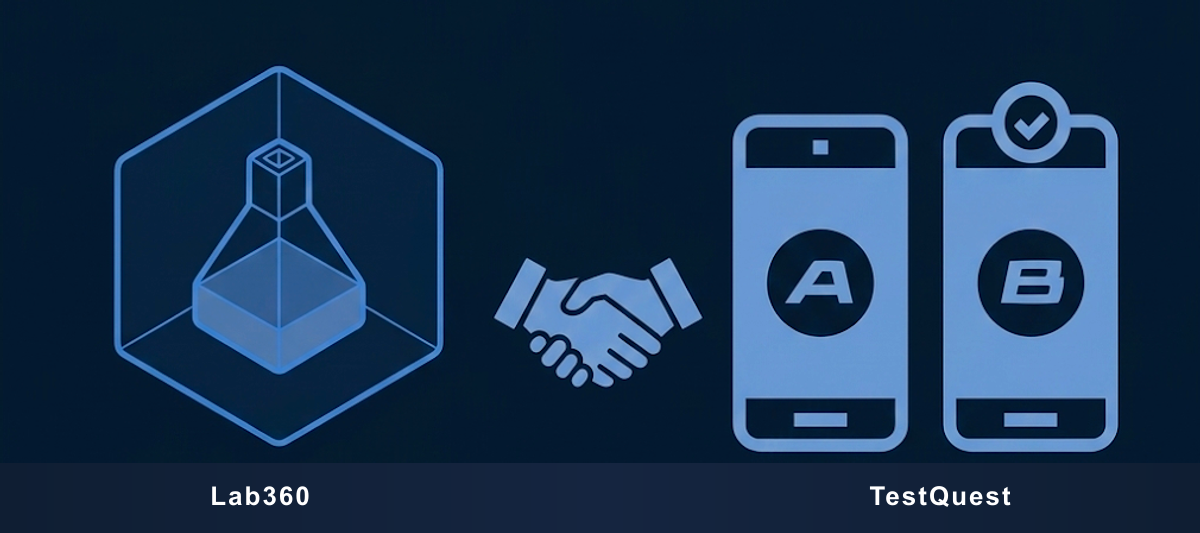
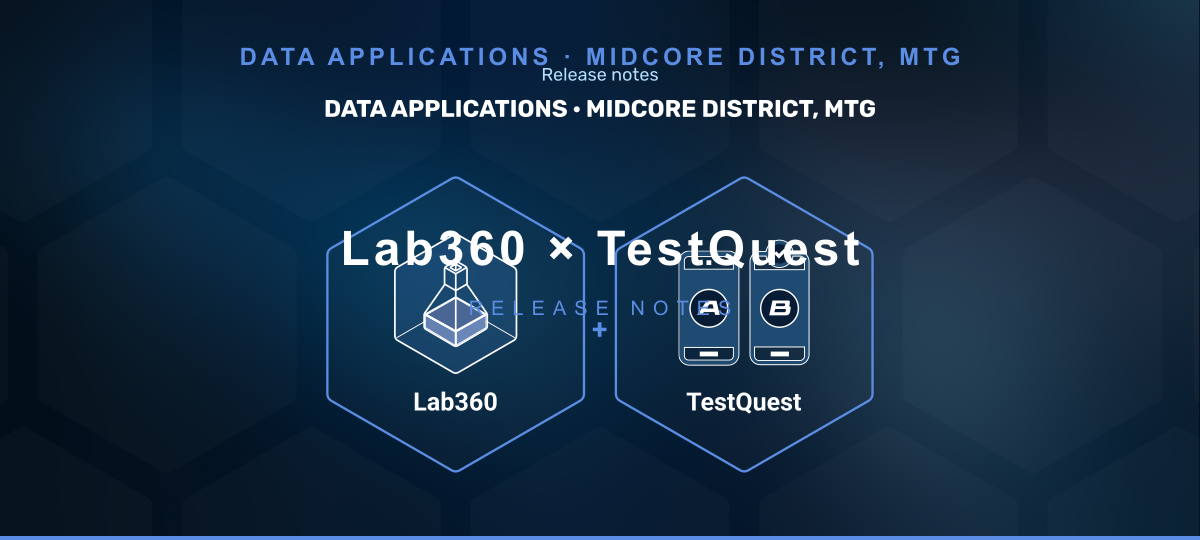
Lab360 x TestQuest: single hero from option 4 + official text style; cleanup old heroes; ad-hoc HTML with relative hero path
Made-with: Cursor

diff --git a/public/email-images/lab360-testquest-release.html b/public/email-images/lab360-testquest-release.html
@@ -1,10 +1,7 @@
-<!DOCTYPE html>
-<html lang="en">
-<head>
-<meta charset="UTF-8"/>
-<meta name="viewport" content="width=device-width,initial-scale=1"/>
-<title>Lab360 × TestQuest Release Note</title>
-<link href="https://fonts.googleapis.com/css2?family=Roboto:ital,wght@0,300;0,400;0,700;0,800;1,400&display=swap" rel="stylesheet"/>
+<meta charset="UTF-8">
+<meta name="viewport" content="width=device-width,initial-scale=1">
+<title>Lab360 Release Note</title>
+<link href="https://fonts.googleapis.com/css2?family=Roboto:ital,wght@0,300;0,400;0,700;0,800;1,400&amp;display=swap" rel="stylesheet">
 <style>
 @media (max-width:620px){
   .email-wrapper{margin:0!important;border-radius:0!important;}
@@ -13,60 +10,58 @@
   .email-cta td table td a{display:block!important;text-align:center!important;padding:12px 20px!important;}
   .email-footer{padding:20px!important;}
 }
+.email-logo-header{max-width:110px;height:auto;display:block;pointer-events:none;border:0;}
+@media (max-width:620px){.email-logo-header{max-width:90px!important;}}
 </style>
-</head>
-<body style="background:#f0f2f5;margin:0;padding:0;">
+
+
 <table width="100%" cellpadding="0" cellspacing="0" border="0" style="background:#f0f2f5;">
-<tr><td align="center" style="padding:32px 16px;">
+<tbody><tr><td align="center" style="padding:32px 16px;">
 
 <table class="email-wrapper" width="600" cellpadding="0" cellspacing="0" border="0" style="max-width:600px;width:100%;background:#fff;border-radius:12px;overflow:hidden;">
 
-<!-- HEADER -->
+<tbody>
+<!-- HEADER (single hero image – replaces previous hex + logo + text) -->
 <tr><td style="padding:0;font-size:0;line-height:0;border-bottom:2px solid #5A8DE3;">
-  <img src="https://tomer-daniel-plarium.github.io/release-builder/email-images/hero-lab360-testquest-nadav.png" width="600" style="display:block;width:100%;height:auto;pointer-events:none;border:0;" alt="Lab360 × TestQuest"/>
+  <img src="hero-lab360-testquest.png" width="600" style="display:block;width:100%;height:auto;pointer-events:none;border:0;" alt="Lab+TestQuest"/>
 </td></tr>
 
 <!-- BODY -->
 <tr><td class="email-content" style="padding:32px 48px 36px;background:#fff;">
-<table width="100%" cellpadding="0" cellspacing="0" border="0"><tr><td style="padding:0 0 12px 0;font-family:Roboto,Arial,sans-serif;">
-      <table cellpadding="0" cellspacing="0" border="0"><tr><td style="background:#ECF2FC;color:#5A8DE3;font-family:Roboto,Arial,sans-serif;font-size:11px;font-weight:700;letter-spacing:2px;text-transform:uppercase;padding:4px 12px;border-radius:20px;">🔬 New Feature</td></tr></table>
-    </td></tr></table>
-<table width="100%" cellpadding="0" cellspacing="0" border="0"><tr><td style="font-family:Roboto,Arial,sans-serif;font-size:26px;font-weight:800;color:#0d1b2e;line-height:1.25;padding:0 0 10px 0;text-align:left;" class="email-title">TestQuest Analytics - Now Inside Lab360</td></tr></table>
-<table width="100%" cellpadding="0" cellspacing="0" border="0"><tr><td style="font-family:Roboto,Arial,sans-serif;font-size:15px;color:#5a7a99;font-style:italic;line-height:1.5;padding:0 0 22px 0;">Analyze your experiments with TestQuest - the DS team's analytics engine - without leaving Lab360</td></tr></table>
-<table cellpadding="0" cellspacing="0" border="0" style="margin:0 0 22px 0;"><tr><td style="width:60px;height:2px;background:#5A8DE3;border-radius:2px;font-size:0;line-height:0;">&nbsp;</td><td style="width:60px;height:2px;background:transparent;font-size:0;line-height:0;">&nbsp;</td></tr></table>
-<table width="100%" cellpadding="0" cellspacing="0" border="0"><tr><td style="font-family:Roboto,Arial,sans-serif;font-size:15px;color:#2c3e55;line-height:1.7;padding:0 0 28px 0;">Until now, configuring experiments in Lab360 and analyzing them in TestQuest meant switching between two systems. This release brings TestQuest analytics directly into Lab360.</td></tr></table>
-<table width="100%" cellpadding="0" cellspacing="0" border="0" style="margin:0 0 28px 0;"><tr><td style="padding:0;"><img src="https://tomer-daniel-plarium.github.io/release-builder/email-images/1773053829170-lab360-tq_integration_image.png" width="100%" style="display:block;border-radius:10px;" alt=""/></td></tr></table>
-<table width="100%" cellpadding="0" cellspacing="0" border="0"><tr><td style="font-family:Roboto,Arial,sans-serif;font-size:17px;font-weight:800;color:#0d1b2e;padding:0 0 10px 0;border-bottom:1.5px solid #c8d9f0;">What's New</td></tr></table><table width="100%" cellpadding="0" cellspacing="0" border="0" style="margin:14px 0 28px 0;"><tr><td width="16" valign="top" style="padding-top:3px;color:#5A8DE3;font-size:11px;line-height:1;">&#9656;</td><td style="padding-left:8px;padding-bottom:14px;font-family:Roboto,Arial,sans-serif;font-size:14px;color:#2c3e55;line-height:1.65;"><strong style="color:#0d1b2e;">Embedded TestQuest View</strong> &mdash; Open experiment analytics in a full-screen view directly from the Lab360 grid. Filters, tabs, and navigation work exactly as in TestQuest.</td></tr><tr><td width="16" valign="top" style="padding-top:3px;color:#5A8DE3;font-size:11px;line-height:1;">&#9656;</td><td style="padding-left:8px;padding-bottom:14px;font-family:Roboto,Arial,sans-serif;font-size:14px;color:#2c3e55;line-height:1.65;"><strong style="color:#0d1b2e;">New Analytics Step in the Wizard</strong> &mdash; A new step in the experiment wizard lets you configure your analysis upfront: choose follow-up days (for example, day 7, 30) and select dimensions auto-detected from your SQL query (country, platform, seniority, etc.).</td></tr></table>
-<table width="100%" cellpadding="0" cellspacing="0" border="0" style="margin:0 0 28px 0;"><tr><td style="border-left:3px solid #5A8DE3;background:#f8fafd;padding:16px 20px;border-radius:0 8px 8px 0;">
-      <table width="100%" cellpadding="0" cellspacing="0" border="0"><tr><td style="font-family:Roboto,Arial,sans-serif;font-size:15px;font-style:italic;color:#2c3e55;line-height:1.7;">This release covers Manual Allocation experiments. Automatic Allocation support - is coming next.</td></tr></table>
-    </td></tr></table>
-<table width="100%" cellpadding="0" cellspacing="0" border="0"><tr><td style="font-family:Roboto,Arial,sans-serif;font-size:17px;font-weight:800;color:#0d1b2e;padding:0 0 10px 0;border-bottom:1.5px solid #c8d9f0;">How It Works</td></tr></table><table width="100%" cellpadding="0" cellspacing="0" border="0" style="margin:14px 0 28px 0;"><tr><td width="30" valign="top" style="padding-top:0;"><table cellpadding="0" cellspacing="0" border="0"><tr><td align="center" style="width:22px;height:22px;background:#5A8DE3;color:#fff;font-family:Roboto,Arial,sans-serif;font-size:11px;font-weight:700;border-radius:50%;line-height:22px;">1</td></tr></table></td><td style="padding-left:10px;padding-bottom:14px;font-family:Roboto,Arial,sans-serif;font-size:14px;color:#2c3e55;line-height:1.65;">Create a Manual Allocation experiment in Lab360.</td></tr><tr><td width="30" valign="top" style="padding-top:0;"><table cellpadding="0" cellspacing="0" border="0"><tr><td align="center" style="width:22px;height:22px;background:#5A8DE3;color:#fff;font-family:Roboto,Arial,sans-serif;font-size:11px;font-weight:700;border-radius:50%;line-height:22px;">2</td></tr></table></td><td style="padding-left:10px;padding-bottom:14px;font-family:Roboto,Arial,sans-serif;font-size:14px;color:#2c3e55;line-height:1.65;">In the Target Audience step, provide your SQL query with player_id, group_id, allocation_ts, reg_date, and any dimension columns.</td></tr><tr><td width="30" valign="top" style="padding-top:0;"><table cellpadding="0" cellspacing="0" border="0"><tr><td align="center" style="width:22px;height:22px;background:#5A8DE3;color:#fff;font-family:Roboto,Arial,sans-serif;font-size:11px;font-weight:700;border-radius:50%;line-height:22px;">3</td></tr></table></td><td style="padding-left:10px;padding-bottom:14px;font-family:Roboto,Arial,sans-serif;font-size:14px;color:#2c3e55;line-height:1.65;">In the new Analytics step, select your follow-up days and choose which detected dimensions to include.</td></tr><tr><td width="30" valign="top" style="padding-top:0;"><table cellpadding="0" cellspacing="0" border="0"><tr><td align="center" style="width:22px;height:22px;background:#5A8DE3;color:#fff;font-family:Roboto,Arial,sans-serif;font-size:11px;font-weight:700;border-radius:50%;line-height:22px;">4</td></tr></table></td><td style="padding-left:10px;padding-bottom:14px;font-family:Roboto,Arial,sans-serif;font-size:14px;color:#2c3e55;line-height:1.65;">Once the experiment is running, click it from the main grid to open the embedded TestQuest analysis view.</td></tr></table>
-<table width="100%" cellpadding="0" cellspacing="0" border="0" style="margin:0 0 28px 0;" class="email-cta"><tr><td align="center" style="padding:0;">
-      <table cellpadding="0" cellspacing="0" border="0"><tr><td style="background:#5A8DE3;border-radius:6px;text-align:center;"><a href="https://data-plarium.com/apps/lab" style="display:inline-block;color:#fff;font-family:Roboto,Arial,sans-serif;font-size:15px;font-weight:700;padding:10px 50px;text-decoration:none;letter-spacing:0.5px;">Try It in Lab360 →</a></td></tr></table>
-    </td></tr></table>
-<table width="100%" cellpadding="0" cellspacing="0" border="0" style="background:#ECF2FC;border-radius:10px;margin:0 0 28px 0;border:1px solid #c8d9f0;"><tr><td style="padding:22px 24px;">
-      <table width="100%" cellpadding="0" cellspacing="0" border="0"><tr><td style="font-family:Roboto,Arial,sans-serif;font-size:17px;font-weight:800;color:#0d1b2e;padding:0 0 10px 0;border-bottom:1.5px solid #c8d9f0;">What's Coming Next</td></tr></table>
-      <table width="100%" cellpadding="0" cellspacing="0" border="0" style="margin-top:14px;"><tr><td width="16" valign="top" style="padding-top:3px;color:#5A8DE3;font-size:11px;line-height:1;">&#9656;</td><td style="padding-left:8px;padding-bottom:14px;font-family:Roboto,Arial,sans-serif;font-size:14px;color:#2c3e55;line-height:1.65;"><strong style="color:#0d1b2e;">Automatic Allocation Support</strong><table cellpadding="0" cellspacing="0" border="0" style="display:inline-table;vertical-align:middle;margin-left:6px;"><tr><td style="background:#dce8fb;color:#5A8DE3;font-family:Roboto,Arial,sans-serif;font-size:9px;font-weight:700;letter-spacing:1.5px;text-transform:uppercase;padding:2px 7px;border-radius:10px;">In Progress</td></tr></table><br/>Full analytics for auto-allocated experiments, including custom CASE WHEN dimension logic.</td></tr></table>
-    </td></tr></table>
-<table width="100%" cellpadding="0" cellspacing="0" border="0"><tr><td style="border-top:1.5px solid #eef3fb;padding-top:20px;text-align:center;font-family:Roboto,Arial,sans-serif;font-size:14px;color:#4a6a8a;line-height:1.8;">Built in collaboration with the Data Science team (BP).</td></tr></table>
-<table width="100%" cellpadding="0" cellspacing="0" border="0" style="margin:0 0 28px 0;"><tr><td align="center" style="padding:0;"><img src="https://tomer-daniel-plarium.github.io/release-builder/email-images/1773053814723-test_quest.png" width="60" style="display:block;margin:0 auto;" alt=""/></td></tr></table>
-<table width="100%" cellpadding="0" cellspacing="0" border="0"><tr><td style="border-top:1.5px solid #eef3fb;padding-top:20px;text-align:center;font-family:Roboto,Arial,sans-serif;font-size:14px;color:#4a6a8a;line-height:1.8;">Questions or feedback? Reach out - we'd love to hear how this fits your workflow.</td></tr></table>
+<table width="100%" cellpadding="0" cellspacing="0" border="0"><tbody><tr><td style="padding:0 0 12px 0;font-family:Roboto,Arial,sans-serif;">
+      <table cellpadding="0" cellspacing="0" border="0"><tbody><tr><td style="background:#ECF2FC;color:#5A8DE3;font-family:Roboto,Arial,sans-serif;font-size:11px;font-weight:700;letter-spacing:2px;text-transform:uppercase;padding:4px 12px;border-radius:20px;">🔬 New Feature</td></tr></tbody></table>
+    </td></tr></tbody></table>
+<table width="100%" cellpadding="0" cellspacing="0" border="0"><tbody><tr><td style="font-family:Roboto,Arial,sans-serif;font-size:26px;font-weight:800;color:#0d1b2e;line-height:1.25;padding:0 0 10px 0;text-align:left;" class="email-title">TestQuest Analytics - Now Inside Lab360</td></tr></tbody></table>
+<table width="100%" cellpadding="0" cellspacing="0" border="0"><tbody><tr><td style="font-family:Roboto,Arial,sans-serif;font-size:15px;color:#5a7a99;font-style:italic;line-height:1.5;padding:0 0 22px 0;">Analyze your experiments with TestQuest - the DS team's analytics engine - without leaving Lab360</td></tr></tbody></table>
+<table cellpadding="0" cellspacing="0" border="0" style="margin:0 0 22px 0;"><tbody><tr><td style="width:60px;height:2px;background:#5A8DE3;border-radius:2px;font-size:0;line-height:0;">&nbsp;</td><td style="width:60px;height:2px;background:transparent;font-size:0;line-height:0;">&nbsp;</td></tr></tbody></table>
+<table width="100%" cellpadding="0" cellspacing="0" border="0"><tbody><tr><td style="font-family:Roboto,Arial,sans-serif;font-size:15px;color:#2c3e55;line-height:1.7;padding:0 0 28px 0;">Until now, configuring experiments in Lab360 and analyzing them in TestQuest meant switching between two systems. This release brings TestQuest analytics directly into Lab360.</td></tr></tbody></table>
+<table width="100%" cellpadding="0" cellspacing="0" border="0" style="margin:0 0 28px 0;"><tbody><tr><td style="padding:0;"><img src="https://tomer-daniel-plarium.github.io/release-builder/email-images/1773053829170-lab360-tq_integration_image.png" width="100%" style="display:block;border-radius:10px;" alt=""></td></tr></tbody></table>
+<table width="100%" cellpadding="0" cellspacing="0" border="0"><tbody><tr><td style="font-family:Roboto,Arial,sans-serif;font-size:17px;font-weight:800;color:#0d1b2e;padding:0 0 10px 0;border-bottom:1.5px solid #c8d9f0;">What's New</td></tr></tbody></table><table width="100%" cellpadding="0" cellspacing="0" border="0" style="margin:14px 0 28px 0;"><tbody><tr><td width="16" valign="top" style="padding-top:3px;color:#5A8DE3;font-size:11px;line-height:1;">▸</td><td style="padding-left:8px;padding-bottom:14px;font-family:Roboto,Arial,sans-serif;font-size:14px;color:#2c3e55;line-height:1.65;"><strong style="color:#0d1b2e;">Embedded TestQuest View</strong> — Open experiment analytics in a full-screen view directly from the Lab360 grid. Filters, tabs, and navigation work exactly as in TestQuest.</td></tr><tr><td width="16" valign="top" style="padding-top:3px;color:#5A8DE3;font-size:11px;line-height:1;">▸</td><td style="padding-left:8px;padding-bottom:14px;font-family:Roboto,Arial,sans-serif;font-size:14px;color:#2c3e55;line-height:1.65;"><strong style="color:#0d1b2e;">New Analytics Step in the Wizard</strong> — A new step in the experiment wizard lets you configure your analysis upfront: choose follow-up days (for example, day 7, 30) and select dimensions auto-detected from your SQL query (country, platform, seniority, etc.).</td></tr></tbody></table>
+<table width="100%" cellpadding="0" cellspacing="0" border="0" style="margin:0 0 28px 0;"><tbody><tr><td style="border-left:3px solid #5A8DE3;background:#f8fafd;padding:16px 20px;border-radius:0 8px 8px 0;">
+      <table width="100%" cellpadding="0" cellspacing="0" border="0"><tbody><tr><td style="font-family:Roboto,Arial,sans-serif;font-size:15px;font-style:italic;color:#2c3e55;line-height:1.7;">This release covers Manual Allocation experiments. Automatic Allocation support - is coming next.</td></tr></tbody></table>
+    </td></tr></tbody></table>
+<table width="100%" cellpadding="0" cellspacing="0" border="0"><tbody><tr><td style="font-family:Roboto,Arial,sans-serif;font-size:17px;font-weight:800;color:#0d1b2e;padding:0 0 10px 0;border-bottom:1.5px solid #c8d9f0;">How It Works</td></tr></tbody></table><table width="100%" cellpadding="0" cellspacing="0" border="0" style="margin:14px 0 28px 0;"><tbody><tr><td width="30" valign="top" style="padding-top:0;"><table cellpadding="0" cellspacing="0" border="0"><tbody><tr><td align="center" style="width:22px;height:22px;background:#5A8DE3;color:#fff;font-family:Roboto,Arial,sans-serif;font-size:11px;font-weight:700;border-radius:50%;line-height:22px;">1</td></tr></tbody></table></td><td style="padding-left:10px;padding-bottom:14px;font-family:Roboto,Arial,sans-serif;font-size:14px;color:#2c3e55;line-height:1.65;">Create a Manual Allocation experiment in Lab360.</td></tr><tr><td width="30" valign="top" style="padding-top:0;"><table cellpadding="0" cellspacing="0" border="0"><tbody><tr><td align="center" style="width:22px;height:22px;background:#5A8DE3;color:#fff;font-family:Roboto,Arial,sans-serif;font-size:11px;font-weight:700;border-radius:50%;line-height:22px;">2</td></tr></tbody></table></td><td style="padding-left:10px;padding-bottom:14px;font-family:Roboto,Arial,sans-serif;font-size:14px;color:#2c3e55;line-height:1.65;">In the Target Audience step, provide your SQL query with player_id, group_id, allocation_ts, reg_date, and any dimension columns.</td></tr><tr><td width="30" valign="top" style="padding-top:0;"><table cellpadding="0" cellspacing="0" border="0"><tbody><tr><td align="center" style="width:22px;height:22px;background:#5A8DE3;color:#fff;font-family:Roboto,Arial,sans-serif;font-size:11px;font-weight:700;border-radius:50%;line-height:22px;">3</td></tr></tbody></table></td><td style="padding-left:10px;padding-bottom:14px;font-family:Roboto,Arial,sans-serif;font-size:14px;color:#2c3e55;line-height:1.65;">In the new Analytics step, select your follow-up days and choose which detected dimensions to include.</td></tr><tr><td width="30" valign="top" style="padding-top:0;"><table cellpadding="0" cellspacing="0" border="0"><tbody><tr><td align="center" style="width:22px;height:22px;background:#5A8DE3;color:#fff;font-family:Roboto,Arial,sans-serif;font-size:11px;font-weight:700;border-radius:50%;line-height:22px;">4</td></tr></tbody></table></td><td style="padding-left:10px;padding-bottom:14px;font-family:Roboto,Arial,sans-serif;font-size:14px;color:#2c3e55;line-height:1.65;">Once the experiment is running, click it from the main grid to open the embedded TestQuest analysis view.</td></tr></tbody></table>
+<table width="100%" cellpadding="0" cellspacing="0" border="0" style="background:#ECF2FC;border-radius:10px;margin:0 0 28px 0;border:1px solid #c8d9f0;"><tbody><tr><td style="padding:22px 24px;">
+      <table width="100%" cellpadding="0" cellspacing="0" border="0"><tbody><tr><td style="font-family:Roboto,Arial,sans-serif;font-size:17px;font-weight:800;color:#0d1b2e;padding:0 0 10px 0;border-bottom:1.5px solid #c8d9f0;">What's Coming Next</td></tr></tbody></table>
+      <table width="100%" cellpadding="0" cellspacing="0" border="0" style="margin-top:14px;"><tbody><tr><td width="16" valign="top" style="padding-top:3px;color:#5A8DE3;font-size:11px;line-height:1;">▸</td><td style="padding-left:8px;padding-bottom:14px;font-family:Roboto,Arial,sans-serif;font-size:14px;color:#2c3e55;line-height:1.65;"><strong style="color:#0d1b2e;">Automatic Allocation Support</strong><table cellpadding="0" cellspacing="0" border="0" style="display:inline-table;vertical-align:middle;margin-left:6px;"><tbody><tr><td style="background:#dce8fb;color:#5A8DE3;font-family:Roboto,Arial,sans-serif;font-size:9px;font-weight:700;letter-spacing:1.5px;text-transform:uppercase;padding:2px 7px;border-radius:10px;">In Progress</td></tr></tbody></table><br>Full analytics for auto-allocated experiments, including custom CASE WHEN dimension logic.</td></tr><tr><td width="16" valign="top" style="padding-top:3px;color:#5A8DE3;font-size:11px;line-height:1;">▸</td><td style="padding-left:8px;padding-bottom:14px;font-family:Roboto,Arial,sans-serif;font-size:14px;color:#2c3e55;line-height:1.65;"><strong style="color:#0d1b2e;">Edit Mode</strong><table cellpadding="0" cellspacing="0" border="0" style="display:inline-table;vertical-align:middle;margin-left:6px;"><tbody><tr><td style="background:#dce8fb;color:#5A8DE3;font-family:Roboto,Arial,sans-serif;font-size:9px;font-weight:700;letter-spacing:1.5px;text-transform:uppercase;padding:2px 7px;border-radius:10px;">Planned</td></tr></tbody></table><br>Update your SQL query, follow-up days, and dimension selection after the experiment is already configured.</td></tr></tbody></table>
+    </td></tr></tbody></table>
+<table width="100%" cellpadding="0" cellspacing="0" border="0"><tbody><tr><td style="border-top:1.5px solid #eef3fb;padding-top:20px;text-align:center;font-family:Roboto,Arial,sans-serif;font-size:14px;color:#4a6a8a;line-height:1.8;">Built in collaboration with the Data Science team (BP).</td></tr></tbody></table>
+<table width="100%" cellpadding="0" cellspacing="0" border="0" style="margin:0 0 28px 0;"><tbody><tr><td align="center" style="padding:0;"><img src="https://tomer-daniel-plarium.github.io/release-builder/email-images/1773053814723-test_quest.png" width="60" style="display:block;margin:0 auto;" alt=""></td></tr></tbody></table>
+<table width="100%" cellpadding="0" cellspacing="0" border="0"><tbody><tr><td style="border-top:1.5px solid #eef3fb;padding-top:20px;text-align:center;font-family:Roboto,Arial,sans-serif;font-size:14px;color:#4a6a8a;line-height:1.8;">Questions or feedback? Reach out - we'd love to hear how this fits your workflow.</td></tr></tbody></table>
 </td></tr>
 
 <!-- FOOTER -->
 <tr><td class="email-footer" style="background:linear-gradient(135deg,#0d1b2e,#162844);padding:28px 40px;text-align:center;">
   <table width="100%" cellpadding="0" cellspacing="0" border="0">
-    <tr><td align="center" style="padding:0 0 10px 0;"><table cellpadding="0" cellspacing="0" border="0" align="center" style="margin:0 auto 10px;"><tr><td valign="middle" style="color:#fff;font-family:Roboto,Arial,sans-serif;font-size:16px;font-weight:700;letter-spacing:1px;">Lab360 × TestQuest</td></tr></table></td></tr>
-    <tr><td align="center" style="color:#5A8DE3;font-family:Roboto,Arial,sans-serif;font-size:12px;font-weight:700;letter-spacing:2px;text-transform:uppercase;padding:0 0 14px 0;">Data Applications &middot; Midcore District, MTG</td></tr>
-    <tr><td style="padding:0 0 14px 0;"><table width="100%" cellpadding="0" cellspacing="0" border="0"><tr><td style="height:1px;background:rgba(255,255,255,0.1);font-size:0;line-height:0;">&nbsp;</td></tr></table></td></tr>
+    <tbody><tr><td align="center" style="padding:0 0 10px 0;"><table cellpadding="0" cellspacing="0" border="0" align="center" style="margin:0 auto 10px;"><tbody><tr><td valign="middle" style="color:#fff;font-family:Roboto,Arial,sans-serif;font-size:16px;font-weight:700;letter-spacing:1px;">Lab+TestQuest</td></tr></tbody></table></td></tr>
+    <tr><td align="center" style="color:#5A8DE3;font-family:Roboto,Arial,sans-serif;font-size:12px;font-weight:700;letter-spacing:2px;text-transform:uppercase;padding:0 0 14px 0;">Data Applications · Midcore District, MTG</td></tr>
+    <tr><td style="padding:0 0 14px 0;"><table width="100%" cellpadding="0" cellspacing="0" border="0"><tbody><tr><td style="height:1px;background:rgba(255,255,255,0.1);font-size:0;line-height:0;">&nbsp;</td></tr></tbody></table></td></tr>
     <tr><td align="center" style="padding:0 0 10px 0;"><a href="mailto:tomer.daniel@plarium.com" style="color:#5A8DE3;font-family:Roboto,Arial,sans-serif;font-size:12px;text-decoration:none;">tomer.daniel@plarium.com</a></td></tr>
     <tr><td align="center" style="color:#4a6a8a;font-family:Roboto,Arial,sans-serif;font-size:11px;line-height:1.6;">* Optimized for desktop. Mobile experience may vary.</td></tr>
-  </table>
+  </tbody></table>
 </td></tr>
 
-</table>
+</tbody></table>
 
 </td></tr>
-</table>
-</body>
-</html>
+</tbody></table>

diff --git a/src/data/apps.js b/src/data/apps.js
@@ -6,7 +6,7 @@ export const SURVEYSTATION_SVG = `<svg width="260" height="301" viewBox="0 0 260
 
 export const DEFAULT_APPS = [
   { id: 'lab360', name: 'Lab360', email: 'tomer.daniel@plarium.com', svgRaw: LAB_SVG },
-  { id: 'lab360-testquest', name: 'Lab360 × TestQuest', email: 'tomer.daniel@plarium.com', svgRaw: LAB_SVG, headerImage: 'https://tomer-daniel-plarium.github.io/release-builder/email-images/hero-lab360-testquest-nadav.png' },
+  { id: 'lab360-testquest', name: 'Lab360 × TestQuest', email: 'tomer.daniel@plarium.com', svgRaw: LAB_SVG, headerImage: 'https://tomer-daniel-plarium.github.io/release-builder/email-images/hero-lab360-testquest.png' },
   { id: 'vizhub', name: 'VizHub', email: '', svgRaw: VIZHUB_SVG },
   { id: 'surveystation', name: 'SurveyStation', email: '', svgRaw: SURVEYSTATION_SVG },
   { id: 'chronicle', name: 'Chronicle', email: '', svgRaw: null },
